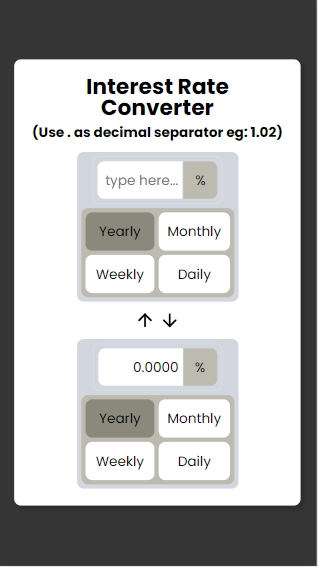
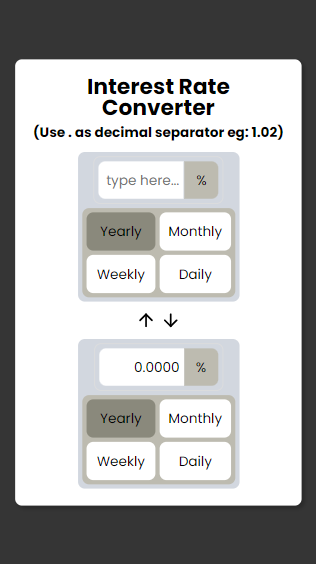
changed image size on readme

Changed region(s): [[0.0, 0.0, 1.0, 1.0], [0.2848, 0.633, 0.3133, 0.6631]]

diff --git a/README.md b/README.md
@@ -6,8 +6,10 @@ Now you can have the answer easy and clean. Type your interest rate and select t
 
 This project was created using React, Typescript, Styled Components and Redux with the intention of studing this technologies.
 
-![Final Look Desktop](https://github.com/ClaudioKamoda/Interest-Rate/blob/main/src/images/FinalLookDesktop.PNG)
-![Final Look Mobile](https://github.com/ClaudioKamoda/Interest-Rate/blob/main/src/images/FinalLookMobile.PNG)
+<img src="https://github.com/ClaudioKamoda/Interest-Rate/blob/main/src/images/FinalLookDesktop.PNG" alt="Final Look Desktop" width="300"/>
+<img src="https://github.com/ClaudioKamoda/Interest-Rate/blob/main/src/images/FinalLookMobile.PNG" alt="Final Look Mobile" width="100"/>
+<!--![Final Look Desktop](https://github.com/ClaudioKamoda/Interest-Rate/blob/main/src/images/FinalLookDesktop.PNG)
+![Final Look Mobile](https://github.com/ClaudioKamoda/Interest-Rate/blob/main/src/images/FinalLookMobile.PNG)-->
 
 ## Demo Link
 
